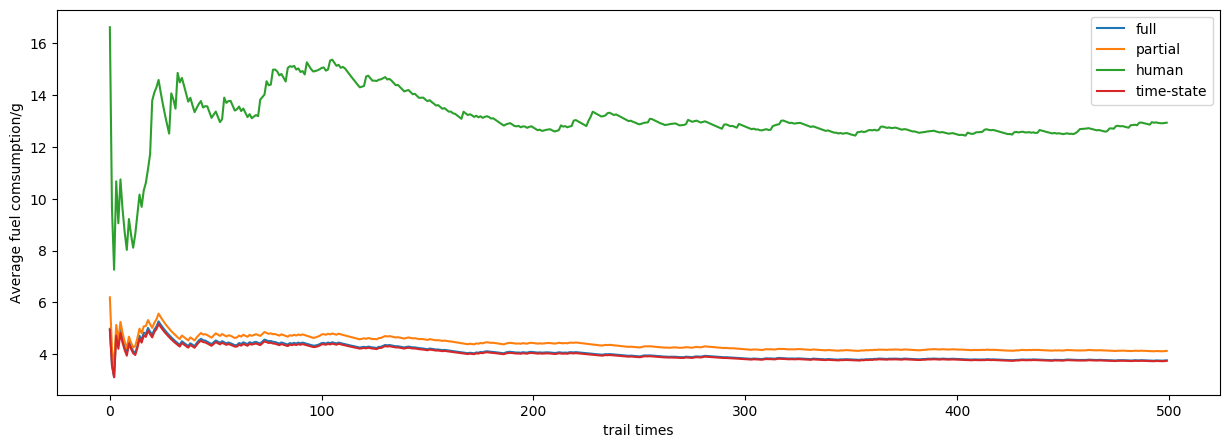
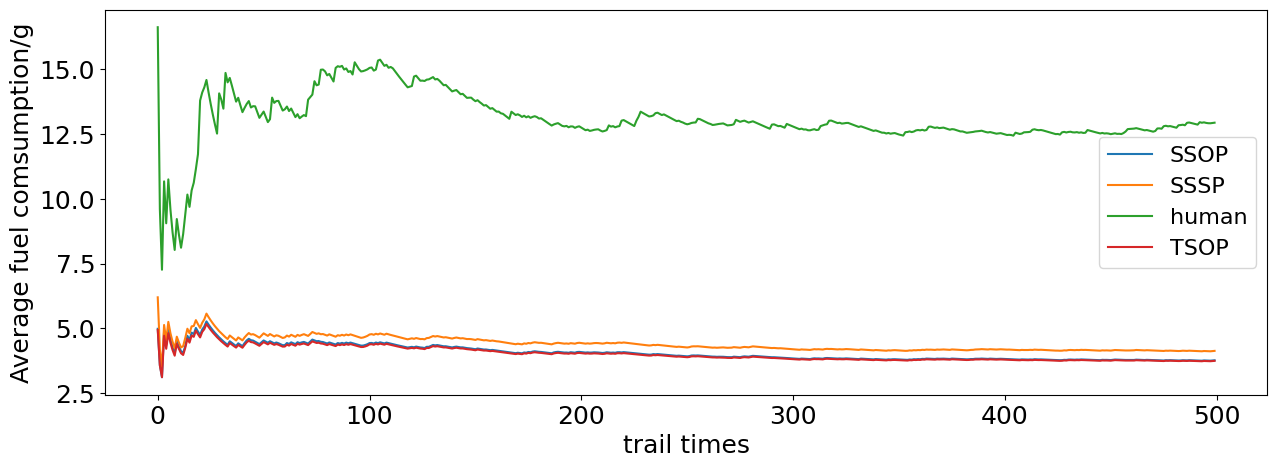
revision for icra

Changed region(s): [[0.0, 0.0, 1.0, 0.9375], [0.4638, 0.9375, 0.5875, 0.9688]]

diff --git a/stochastic/plot_behavior_combine.py b/stochastic/plot_behavior_combine.py
@@ -100,14 +100,15 @@ colorlist = ['y', 'g', 'b', 'olive']
 
 det_time_list, opt_time_list = [], []
 
+plt.rc('xtick',labelsize=18)
+plt.rc('ytick',labelsize=18)
+
 for init_vel in vel_collection:
 
     result = pd.DataFrame(columns=["v0", "t0", "det", "sto", "dum"])
-    plt.rcParams.update({'font.size': 15})
+    fig, axs = plt.subplots(2, 1, figsize=(8, 10))
     # plt.figure(figsize=(10, 8))
-
-    fig, axs = plt.subplots(1, 2, figsize=(16, 5))
-    
+    # for t0_ in [0]:
     for t0_ in t0_set:
     # for lll in range(1):
     #     t0_ = t0_set[[0, 2][lll]]
@@ -263,8 +264,6 @@ for init_vel in vel_collection:
             # cost_sto += cost_time_step(dt, u, w1, w2, w3, x_sto, light)
             time_prof_sto.append(t)
         
-
-
         # B. determined case
         x_det = copy.deepcopy(x0)
         cost_det = 0
@@ -382,7 +381,7 @@ for init_vel in vel_collection:
 
         axs[1].plot(time_prof_sto, traj_sto, 'navy')
         # axs[0, 1].set_title('Partial trajectory')
-        axs[ 0].plot(time_prof_det, traj_det, 'grey')
+        axs[0].plot(time_prof_det, traj_det, 'grey')
         # axs[0, 0].set_title('Full trajectory')
         axs[1].plot(time_prof_dum, traj_dum, 'olive')
         # axs[0, 1].set_title('Human model trajectory')
@@ -391,7 +390,8 @@ for init_vel in vel_collection:
 
         for ax in axs.flat:
             ax.set(xlabel='time/sec', ylabel='position/m')
-            ax.set_xlim(0, light.location * 1.2)
+            # ax.set_xlim(0, light.location * 1.2)
+            ax.set_xlim([0, 48])
             ax.set_xticks(np.arange(0, light.location * 1.3, 4))
             ax.set_yticks(np.arange(0, 70, 10))
             ax.grid(color='b', linestyle='-', linewidth=.05)
@@ -419,24 +419,18 @@ for init_vel in vel_collection:
                     newline(green[2*j], green[2*j + 1], 'g', ax)
                 for j in range(int(yel_num/2)):
                     newline(yellow[2*j], yellow[2*j + 1], 'y', ax)
-
-    print(det_delta_t)
-    print(opt_delta_t)
-    # plt.xlabel('time/sec')
-    # plt.ylabel('position/m')
-    # plt.xlim([0, 1.5 * light.T])
-    # plt.ylim([0, light_location * 1.5])
-    # plt.legend(["partial", "full", "human", "time-state"])
-    # plt.tight_layout()
     
     # plt.grid(color='b', linestyle='-', linewidth=.2)
-    axs[0].legend(["full", "time-state"], bbox_to_anchor=(0.8,0.88), fontsize=8)
-    axs[1].legend(["partial", "human model"], bbox_to_anchor=(0.8,0.88), fontsize=8)
 
+    # axs[0].legend(["full", "time-state"], bbox_to_anchor=(0.8,0.88), fontsize=18)
+    # axs[1].legend(["partial", "human model"], bbox_to_anchor=(0.8,0.88), fontsize=18)
+    plt.rcParams.update({'font.size': 15})
+    for ax in axs.flat:
+        ax.set_xlim([0, 48])
     plt.tight_layout()
     foldername = 'v0='+ str(x0[1])
 
-    pic_name = 'vel_profile_v0='+ str(init_vel)+'_v_star=' +str(v_star)+ '_revision.png'
+    pic_name = 'icra_vel_profile_v0='+ str(init_vel)+'_v_star=' +str(v_star)+ '_revision.png'
     plt.savefig(os.path.join(os.getcwd(), 'pics', trafficFolderName, foldername, pic_name))
 
     plt.close()

diff --git a/stochastic/revision_processing.py b/stochastic/revision_processing.py
@@ -7,7 +7,11 @@ timeset = [26, 5, 25]                      # a, red, yellow, green
 timeset = [15, 3, 20]                      # b, red, yellow, green
 trafficFolderName = str(timeset[0]) + '_' + str(timeset[1]) + '_' + str(timeset[2])
 vel_collection = [5, 10, 15, 20]
+vel_collection = [15]
 density = 0.7489
+plt.rc('xtick',labelsize=18)
+plt.rc('ytick',labelsize=18)
+
 
 for init_vel in vel_collection:
     x0 = [0, init_vel]
@@ -52,9 +56,9 @@ for init_vel in vel_collection:
     plt.plot(ave_dum)
     plt.plot(ave_opt)
     
-    plt.legend(["full", "partial", "human", "time-state"])
-    plt.xlabel("trail times")
-    plt.ylabel("Average fuel comsumption/g")
+    plt.legend(["SSOP", "SSSP", "human", "TSOP"], prop={"size":16})
+    plt.xlabel("trail times", fontsize=18)
+    plt.ylabel("Average fuel comsumption/g", fontsize=18)
     # plt.title("Monte Carlo compare of v0 = %s in %d trials" % (init_vel, len(cost_table["sto"])))
     foldername = 'v0='+ str(x0[1])
     pic_name = 'revision_v0='+ str(init_vel)+ '_Monte_Carlo.png'
